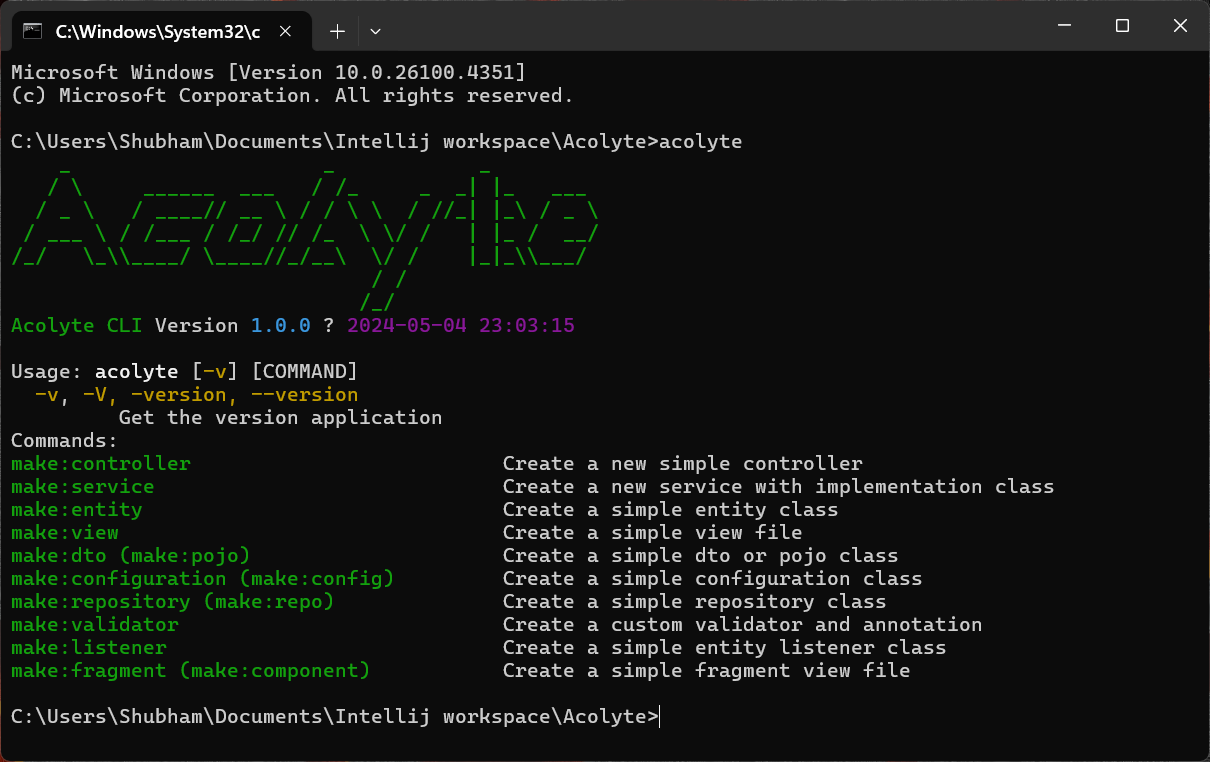
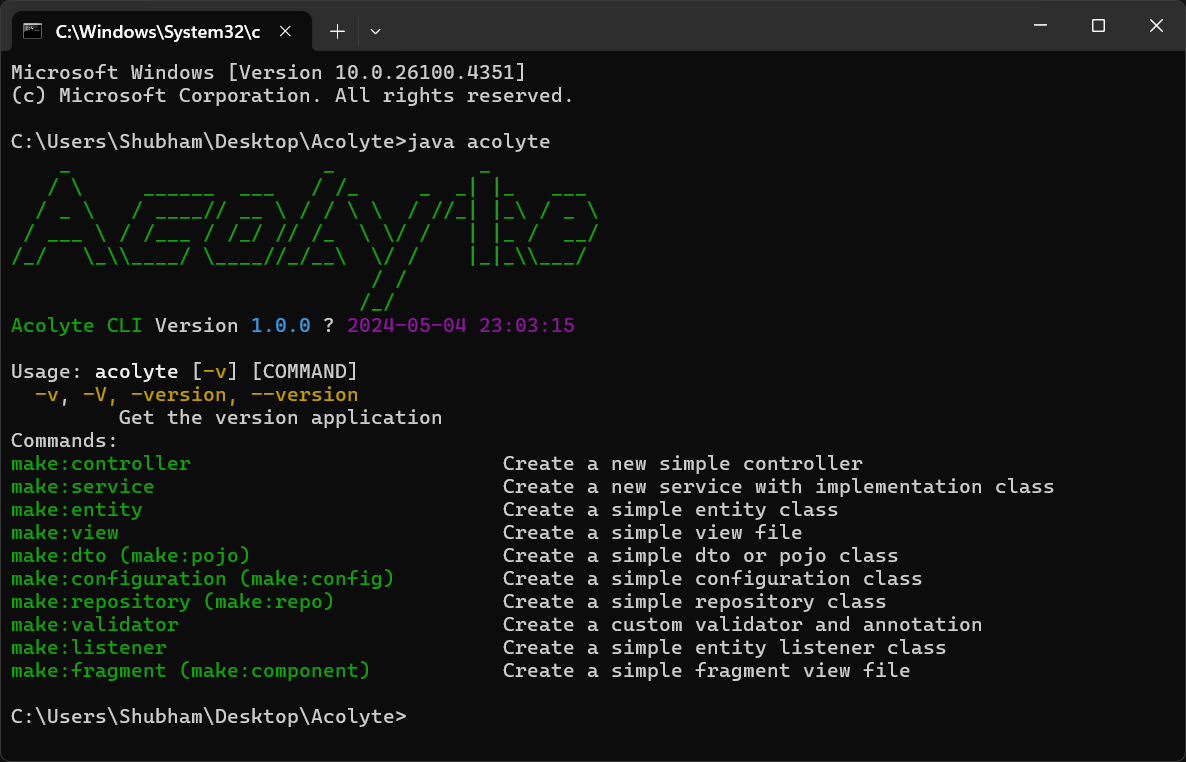
added general way of usage cross platform support

diff --git a/acolyte.java b/acolyte.java
@@ -1,0 +1,47 @@
+import java.io.BufferedReader;
+import java.io.File;
+import java.io.InputStreamReader;
+import java.util.ArrayList;
+import java.util.List;
+
+public class acolyte {
+
+    public static final String JAR_NAME = "Acolyte-1.0-SNAPSHOT.jar";
+
+    public static void main(String[] args) throws Exception {
+        String os = System.getProperty("os.name").toLowerCase();
+        boolean isWindows = os.contains("win");
+
+        List<String> command = new ArrayList<>();
+        if (isWindows) {
+            command.add("cmd.exe");
+            command.add("/c");
+        } else {
+            command.add("sh");
+            command.add("-c");
+        }
+
+        StringBuilder fullCommand = new StringBuilder("java -jar " + JAR_NAME);
+        if (args.length > 0) {
+            fullCommand.append(" ").append(String.join(" ", args));
+        }
+
+        command.add(fullCommand.toString());
+
+        ProcessBuilder builder = new ProcessBuilder(command);
+
+        builder.directory(new File(System.getProperty("user.dir")));
+        builder.redirectErrorStream(true);
+
+        Process process = builder.start();
+
+        try (BufferedReader reader = new BufferedReader(new InputStreamReader(process.getInputStream()))) {
+            String line;
+            while ((line = reader.readLine()) != null) {
+                System.out.println(line);
+            }
+        }
+
+        int exitCode = process.waitFor();
+    }
+}

diff --git a/README.md b/README.md
@@ -4,7 +4,7 @@ Acolyte is a command-line tool designed to boost your productivity in Spring Boo
 
 It supports generating entities, services, repositories, controllers, views, configuration files, and more — all with a single command.
 
-![Screenshot](screenshots/oranbyte1.png)
+![Screenshot](screenshots/oranbyte2.png)
 
 ---
 
@@ -14,9 +14,9 @@ It supports generating entities, services, repositories, controllers, views, con
 Generates a JPA entity class with a basic structure.
 
 ```bash
-acolyte make:entity <Entity-Name>
+java acolyte make:entity <Entity-Name>
 # Example:
-acolyte make:entity User
+java acolyte make:entity User
 ```
 
 ---
@@ -25,9 +25,9 @@ acolyte make:entity User
 Creates a Thymeleaf view file with the specified name.
 
 ```bash
-acolyte make:view <view-name>
+java acolyte make:view <view-name>
 # Example:
-acolyte make:view user-list
+java acolyte make:view user-list
 ```
 
 ---
@@ -36,12 +36,12 @@ acolyte make:view user-list
 Generates a Spring controller class. You can optionally scaffold common REST methods using `--resource`.
 
 ```bash
-acolyte make:controller <Controller-Name> [--resource <methods>]
+java acolyte make:controller <Controller-Name> [--resource <methods>]
 
 # Examples:
-acolyte make:controller UserController
-acolyte make:controller UserController --resource
-acolyte make:controller UserController --resource index save destroy
+java acolyte make:controller UserController
+java acolyte make:controller UserController --resource
+java acolyte make:controller UserController --resource index save destroy
 ```
 
 ---
@@ -50,9 +50,9 @@ acolyte make:controller UserController --resource index save destroy
 Creates a Data Transfer Object or plain Java class.
 
 ```bash
-acolyte make:dto <Dto-Name>
+java acolyte make:dto <Dto-Name>
 # Example:
-acolyte make:dto UserDto
+java acolyte make:dto UserDto
 ```
 
 ---
@@ -61,9 +61,9 @@ acolyte make:dto UserDto
 Generates a service class and optionally an interface following the service pattern.
 
 ```bash
-acolyte make:service <Service-Name>
+java acolyte make:service <Service-Name>
 # Example:
-acolyte make:service UserService
+java acolyte make:service UserService
 ```
 
 ---
@@ -72,12 +72,12 @@ acolyte make:service UserService
 Creates a JPA repository interface for a given entity.
 
 ```bash
-acolyte make:repository <Entity-Name>
+java acolyte make:repository <Entity-Name>
 # OR
-acolyte make:repo <Entity-Name>
+java acolyte make:repo <Entity-Name>
 
 # Example:
-acolyte make:repo User
+java acolyte make:repo User
 ```
 
 ---
@@ -86,12 +86,12 @@ acolyte make:repo User
 Creates a configuration class annotated with `@Configuration`.
 
 ```bash
-acolyte make:configuration <Config-Class-Name>
+java acolyte make:configuration <Config-Class-Name>
 # OR
-acolyte make:config <Config-Class-Name>
+java acolyte make:config <Config-Class-Name>
 
 # Example:
-acolyte make:config WebConfig
+java acolyte make:config WebConfig
 ```
 
 ---
@@ -100,9 +100,9 @@ acolyte make:config WebConfig
 Creates a custom validator class and links it to a DTO for form validation.
 
 ```bash
-acolyte make:validator <Validator-Class-Name> --dto=<Dto-Class-Name>
+java acolyte make:validator <Validator-Class-Name> --dto=<Dto-Class-Name>
 # Example:
-acolyte make:validator UserValidator --dto=UserDto
+java acolyte make:validator UserValidator --dto=UserDto
 ```
 
 ---
@@ -111,9 +111,9 @@ acolyte make:validator UserValidator --dto=UserDto
 Generates an entity listener for lifecycle callbacks.
 
 ```bash
-acolyte make:listener <Listener-Class-Name>
+java acolyte make:listener <Listener-Class-Name>
 # Example:
-acolyte make:listener UserListener
+java acolyte make:listener UserListener
 ```
 
 **Usage in Entity:**
@@ -131,13 +131,13 @@ public class User {
 Generates a reusable Thymeleaf HTML fragment/component.
 
 ```bash
-acolyte make:fragment <fragment-path>
+java acolyte make:fragment <fragment-path>
 # OR
-acolyte make:component <component-path>
+java acolyte make:component <component-path>
 
 # Example:
-acolyte make:fragment admin/layout/header
-acolyte make:component admin/layout/header
+java acolyte make:fragment admin/layout/header
+java acolyte make:component admin/layout/header
 ```
 
 **Usage in Thymeleaf:**
